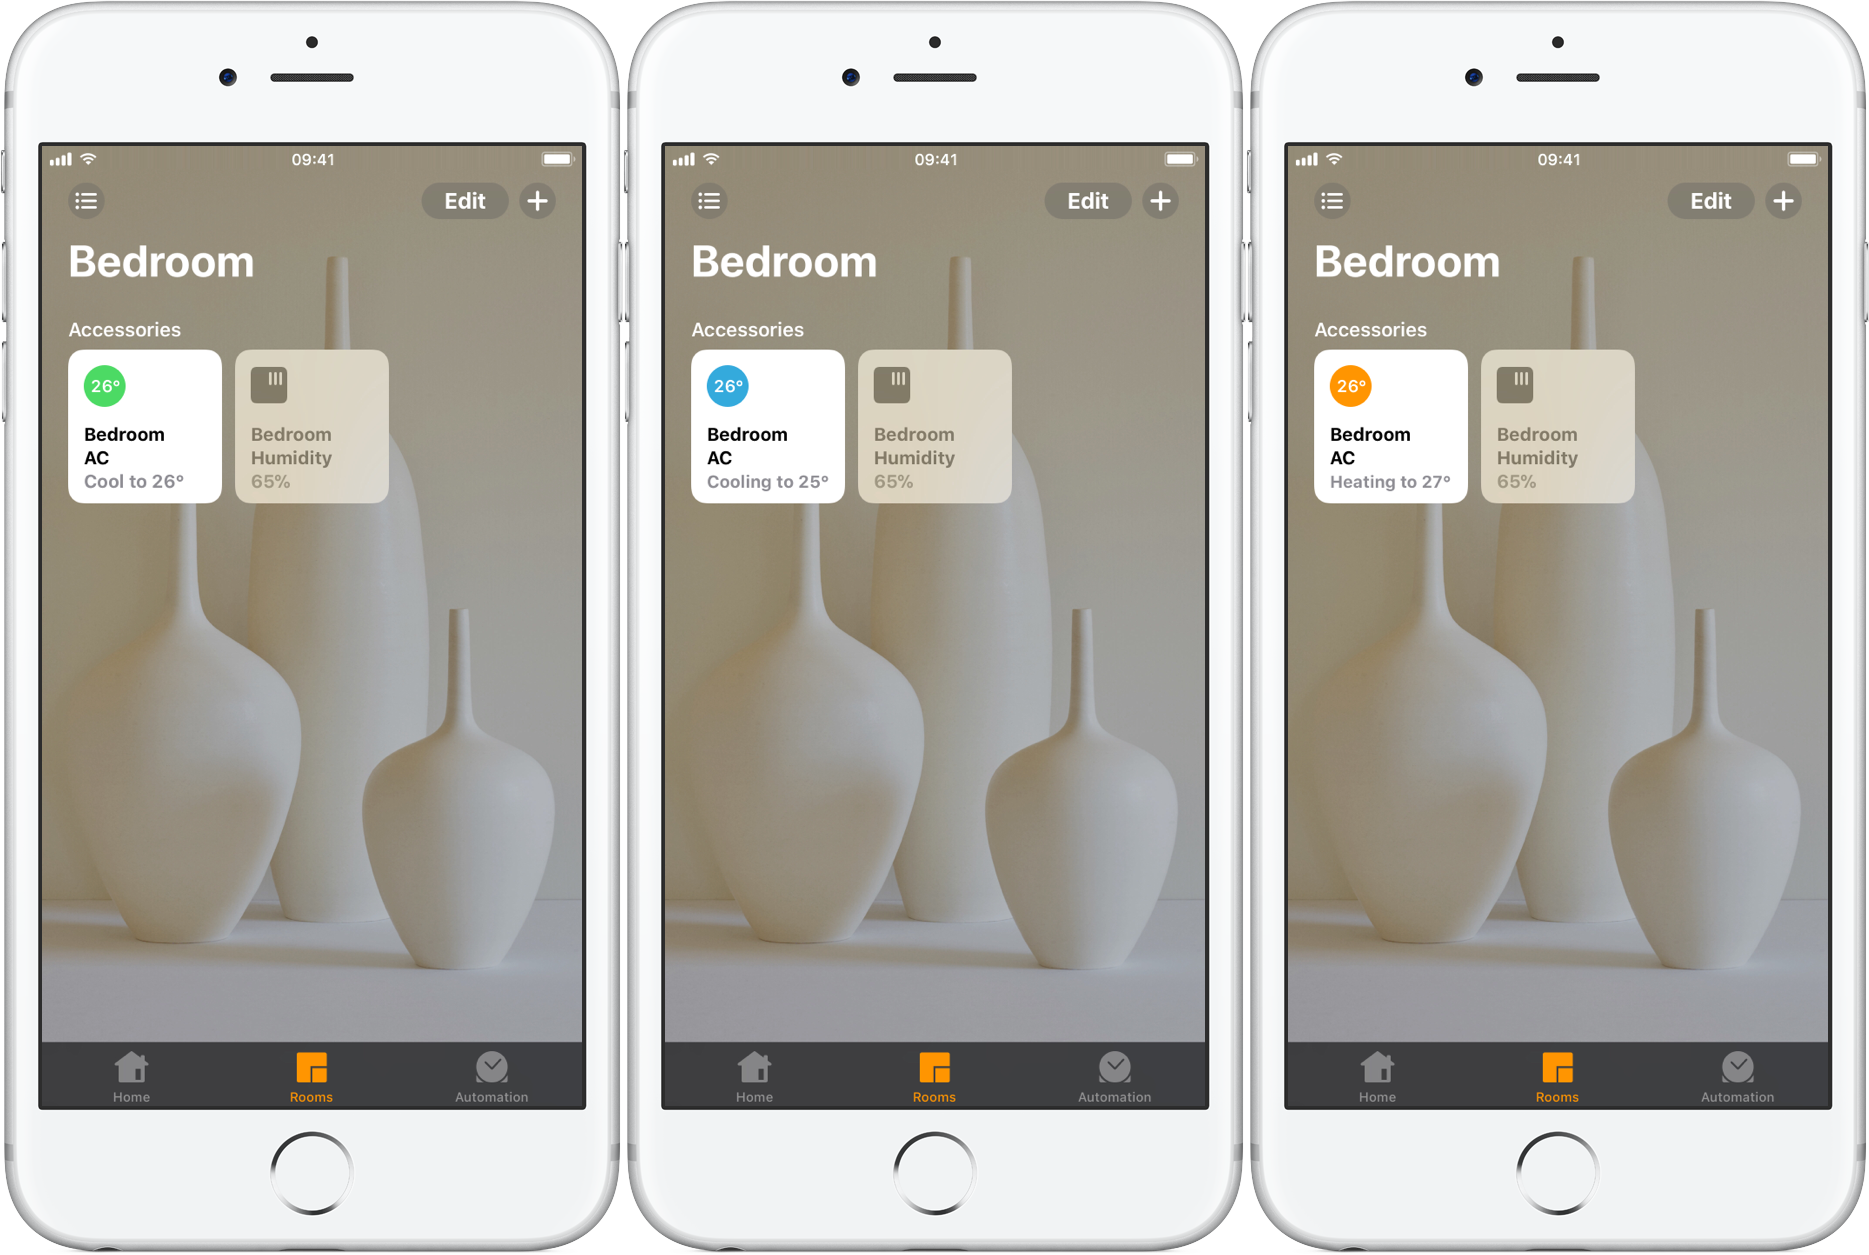
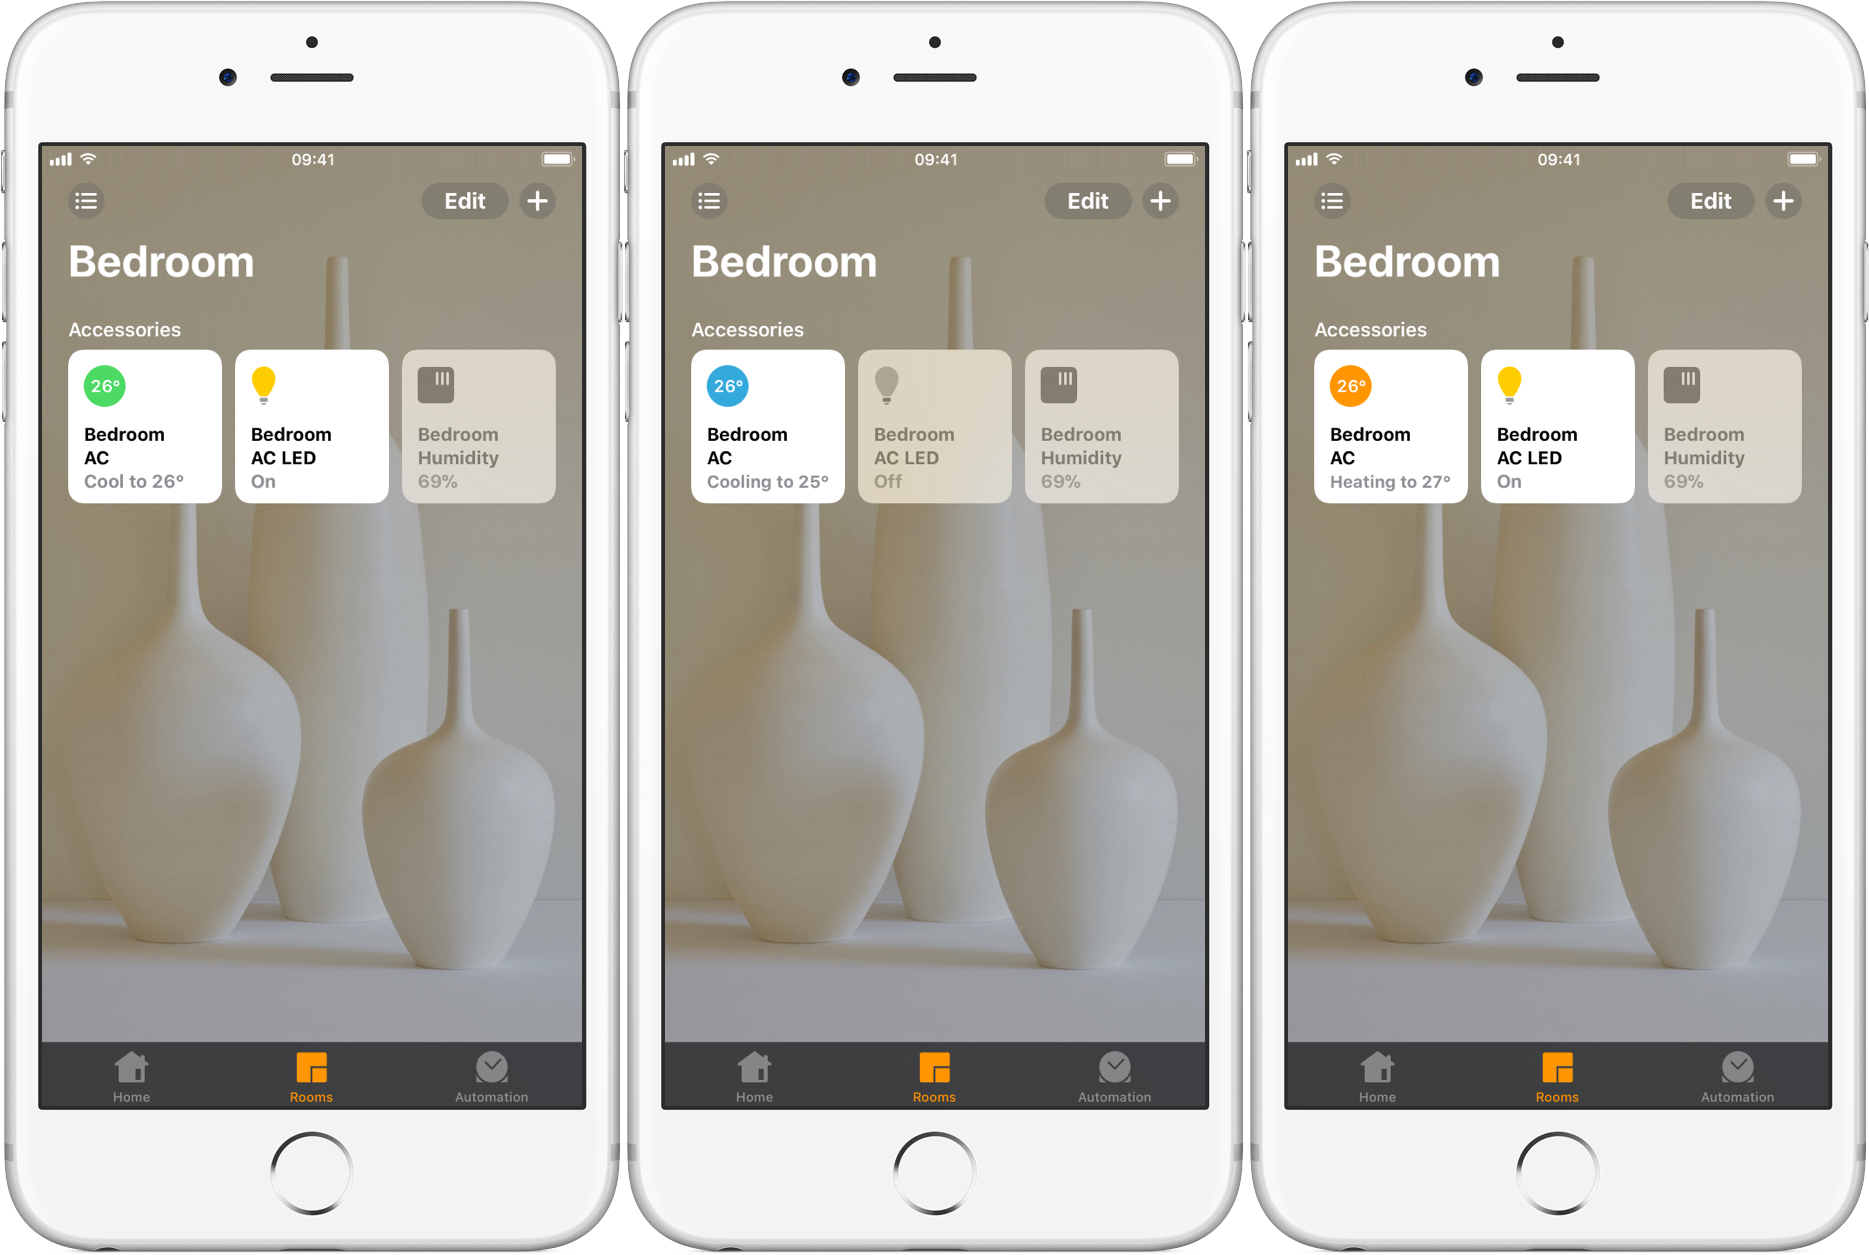
Feature: LED control

diff --git a/index.js b/index.js
@@ -18,6 +18,7 @@ class MiHeaterCooler {
         this.name = config.name || 'AC Partner';
         this.token = config.token;
         this.address = config.address;
+        this.enableLED = config.enableLED + '' === 'true'; // enable led control
         this.sensorId = config.sensorId; // humidity-temperature-pressure sensor id
         this.ratedPower = config.ratedPower; // Watt, used for fake BatteryService
         this.idlePower = config.idlePower || 100; // Watt, determine whether CurrentHeaterCoolerState is idle
@@ -38,6 +39,7 @@ class MiHeaterCooler {
         this.CurrentHeaterCoolerState;
         this.CurrentTemperature;
 
+        this.LED;
         this.CurrentRelativeHumidity;
         this.ChargingState; // Characteristic.ChargingState.CHARGING so far, means wired
         this.BatteryLevel; // display power by this, equals 100 * power / this.ratedPower
@@ -68,14 +70,19 @@ class MiHeaterCooler {
         this.acService = new Service.HeaterCooler(this.name);
         this.services.push(this.acService);
 
-        if (this.ratedPower) {
-            this.batteryService = new Service.BatteryService(this.name);
-            this.services.push(this.batteryService);
+        if (this.enableLED) {
+            this.ledService = new Service.Lightbulb(this.name);
+            this.services.push(this.ledService);
         }
 
         if (this.sensorId) {
             this.humidityService = new Service.HumiditySensor(this.name);
             this.services.push(this.humidityService);
+        }
+
+        if (this.ratedPower) {
+            this.powerService = new Service.BatteryService(this.name);
+            this.services.push(this.powerService);
         }
 
         this.serviceInfo = new Service.AccessoryInformation();
@@ -124,13 +131,18 @@ class MiHeaterCooler {
 
         this.CurrentTemperature = this.acService.getCharacteristic(Characteristic.CurrentTemperature);
 
+        if (this.enableLED) {
+            this.LED = this.ledService.getCharacteristic(Characteristic.On)
+                .on('set', this._setLED.bind(this));
+        }
+
         if (this.sensorId) {
             this.CurrentRelativeHumidity = this.humidityService.getCharacteristic(Characteristic.CurrentRelativeHumidity);
         }
 
         if (this.ratedPower) {
-            this.ChargingState = this.batteryService.getCharacteristic(Characteristic.ChargingState);
-            this.BatteryLevel = this.batteryService.getCharacteristic(Characteristic.BatteryLevel);
+            this.ChargingState = this.powerService.getCharacteristic(Characteristic.ChargingState);
+            this.BatteryLevel = this.powerService.getCharacteristic(Characteristic.BatteryLevel);
         }
     }
 
@@ -193,6 +205,10 @@ class MiHeaterCooler {
                         this.CurrentHeaterCoolerState.updateValue(Characteristic.CurrentHeaterCoolerState.IDLE);
                     }
 
+                    if (this.enableLED) {
+                        this.LED.updateValue(led.toLowerCase() === 'a');
+                    }
+
                     if (!this.sensorId) {
                         this.CurrentTemperature.updateValue(temperature);
                     }
@@ -237,7 +253,7 @@ class MiHeaterCooler {
             active = this.Active.value;
             speed = this.RotationSpeed.value - 1;
             swing = 1 - this.SwingMode.value;
-            led = 1;
+            led = this.enableLED ? (this.LED.value ? 'a' : '0') : '1';
 
             switch (this.TargetHeaterCoolerState.value) {
                 case Characteristic.TargetHeaterCoolerState.AUTO:
@@ -278,7 +294,7 @@ class MiHeaterCooler {
      * @param s number swing, 0 : enabled, 1 : disabled
      * @param td number temperature, decimal
      * @param th string temperature, hexadecimal
-     * @param l number led, always be 1 so far
+     * @param l string led, '0' : off, 'a' : on
      */
     _genCmd(p, m, w, s, td, th, l) {
         let cmd;
@@ -351,6 +367,12 @@ class MiHeaterCooler {
     }
 
     _setSwingMode(SwingMode, callback) {
+        callback();
+
+        this.sendCmdAsync();
+    }
+
+    _setLED(LED, callback) {
         callback();
 
         this.sendCmdAsync();
